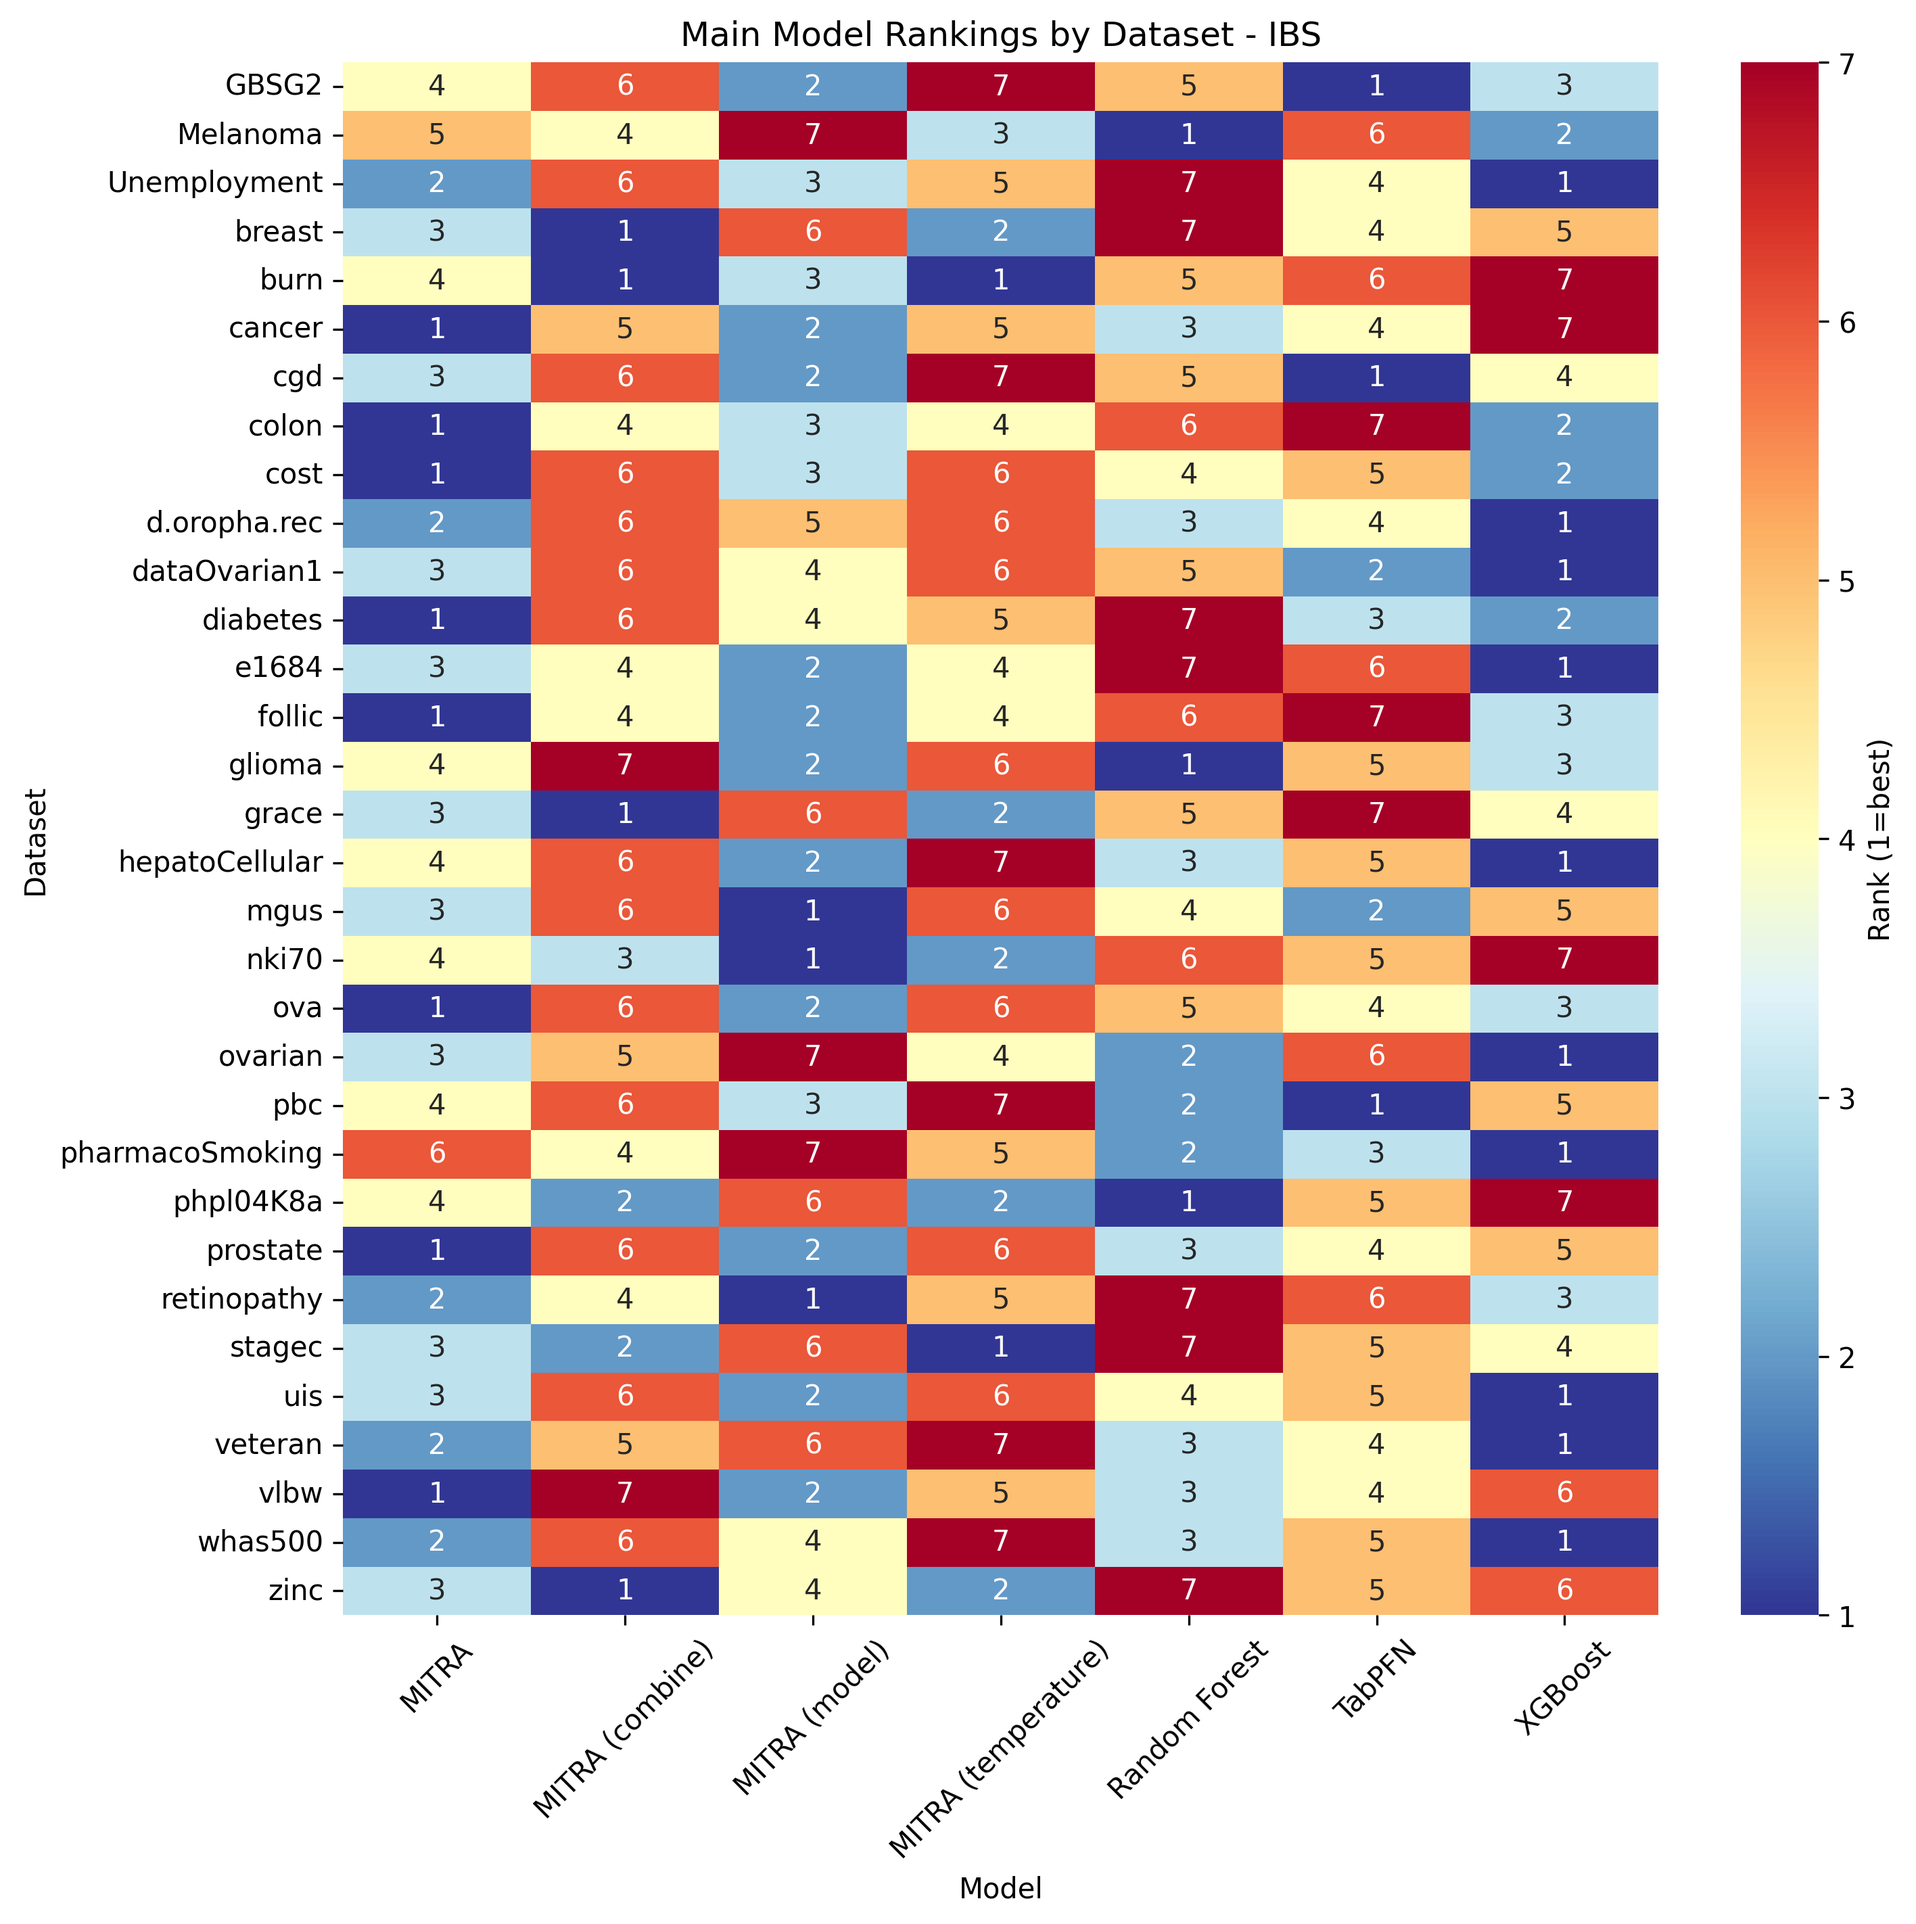
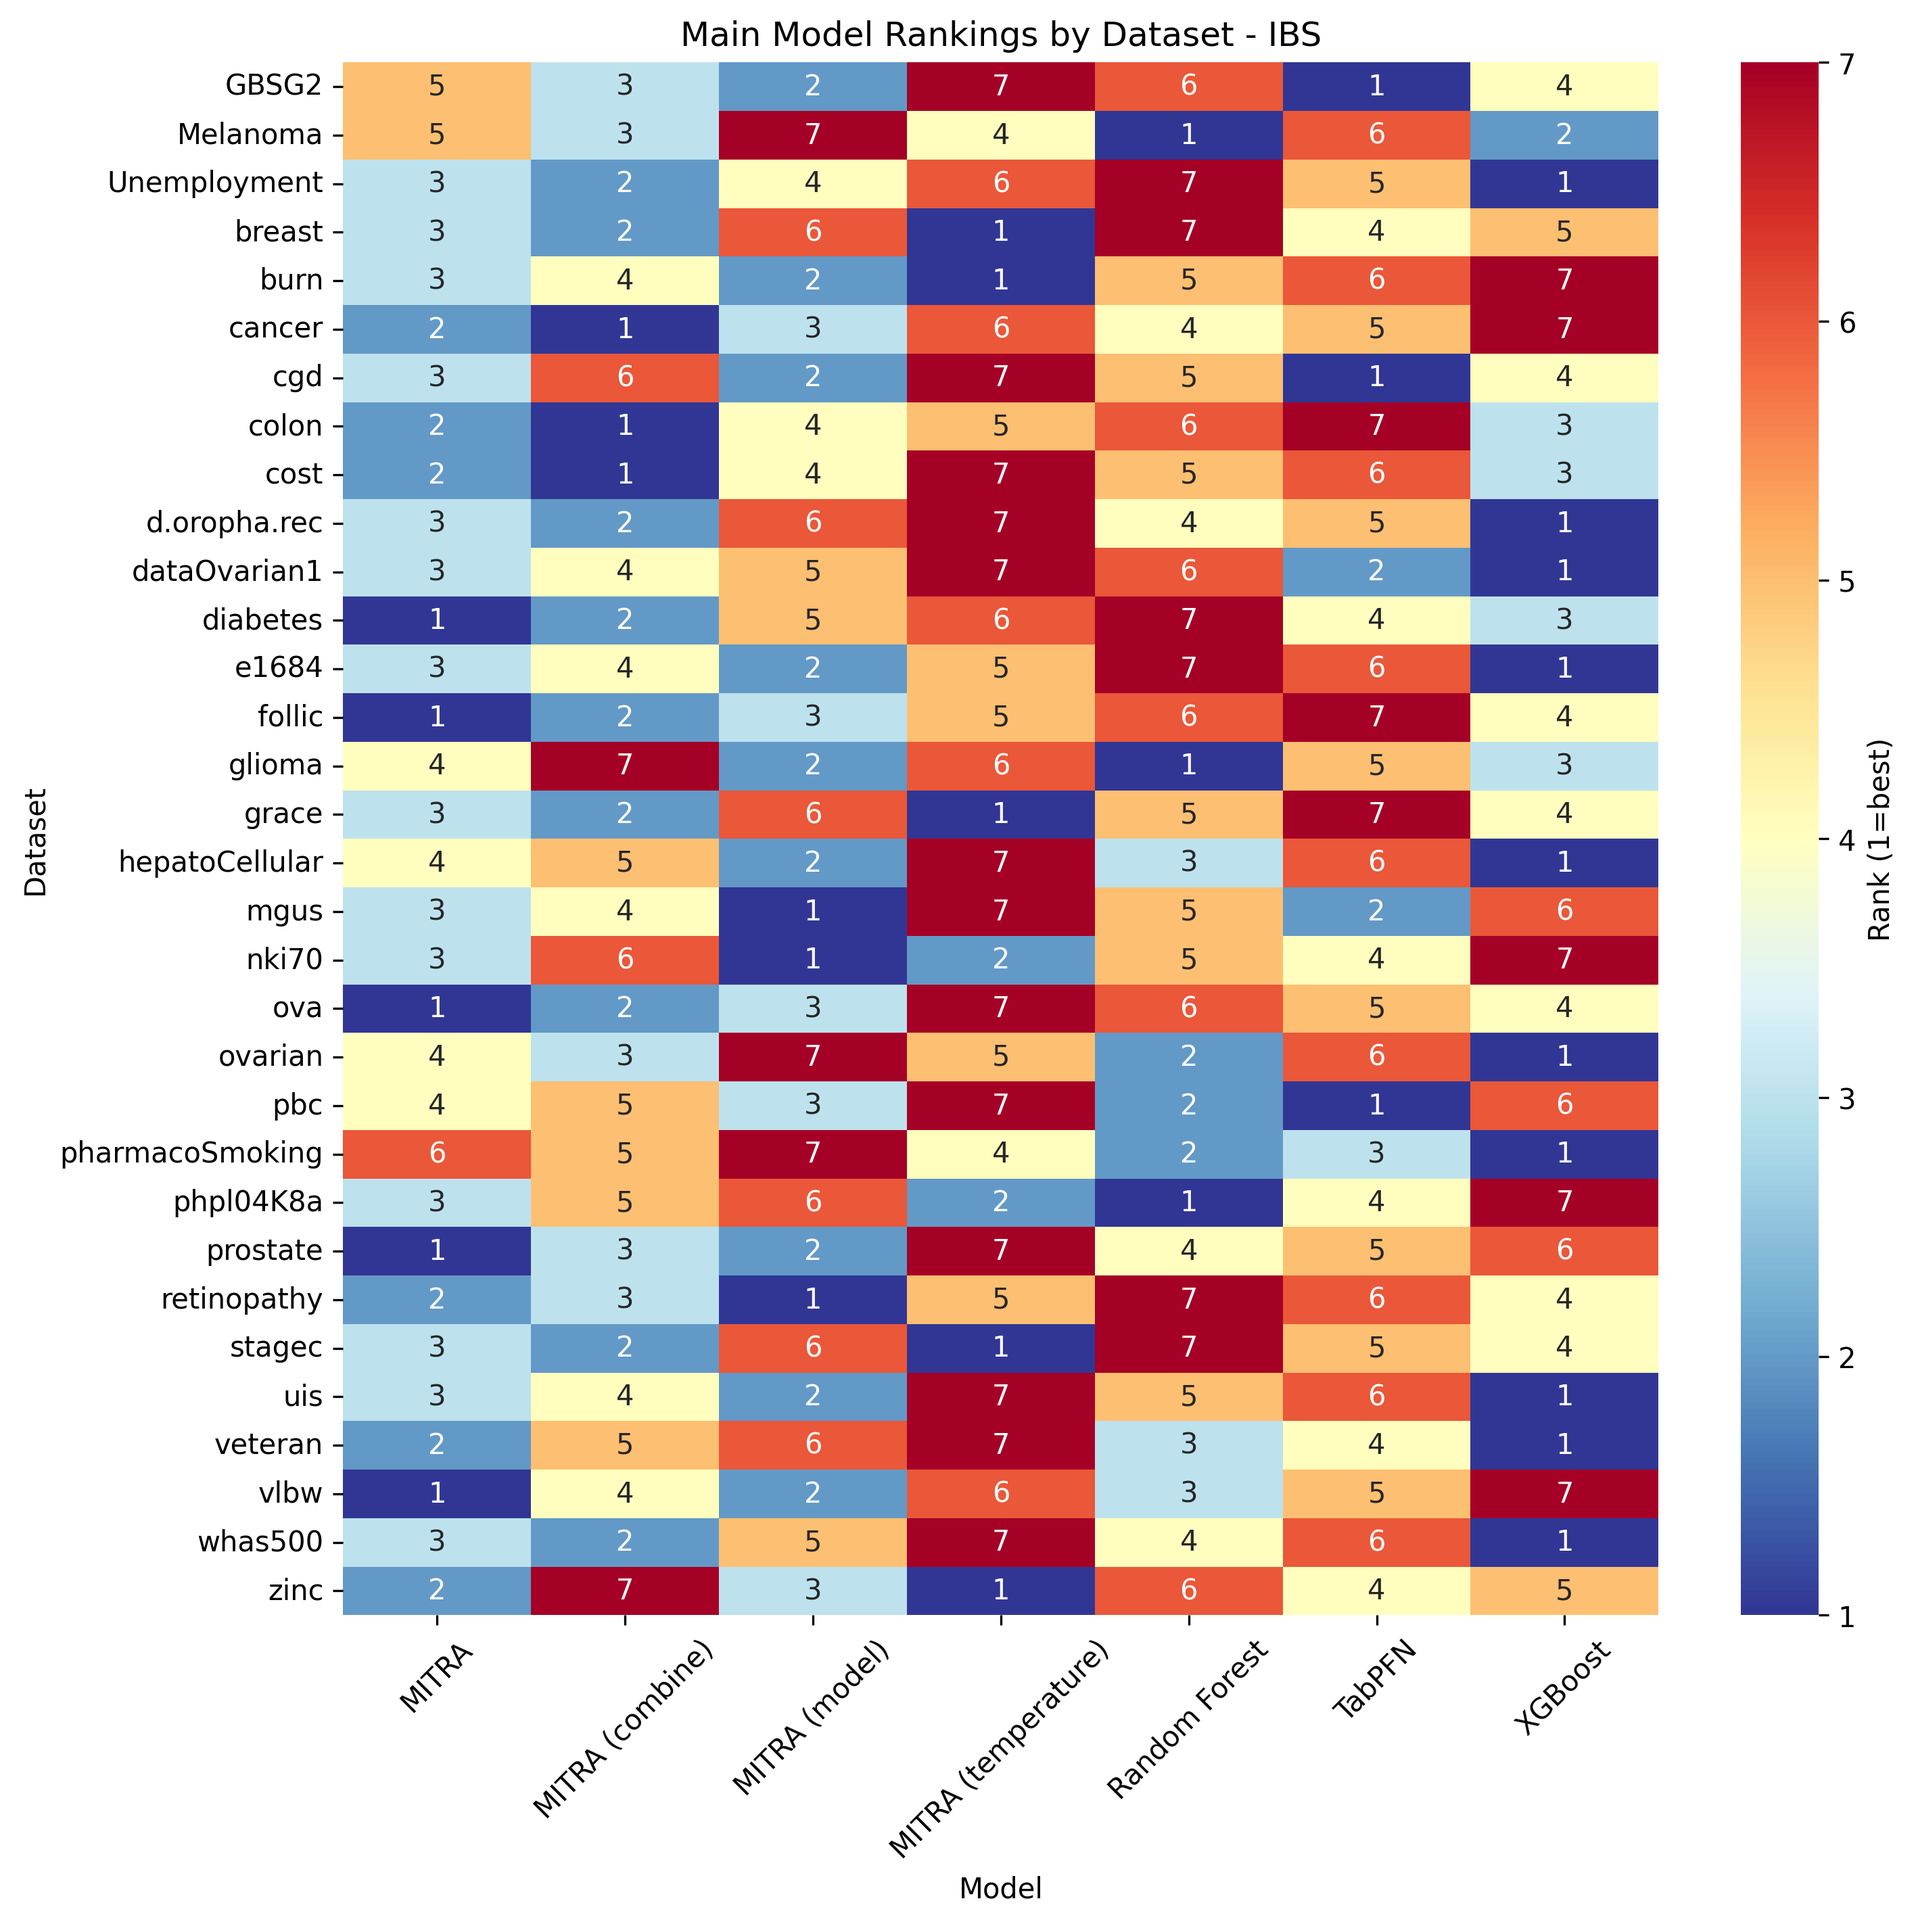
temperature minimize ibs

Changed region(s): [[0.1553, 0.0309, 0.8697, 0.8661]]

diff --git a/surv_mitra_binary_combine.py b/surv_mitra_binary_combine.py
@@ -119,49 +119,64 @@ def construct_mitra_binary_testset(x_test, times):
 
     return X_mitra_test, np.array(patient_ids)
 
-def find_optimal_temperature(val_logits, val_labels, initial_temp=1.0):
+def find_optimal_temperature(val_probs, X_mitra_val_pred, val_patient_ids, y_trainval, y_val, eval_times, initial_temp=1.0):
     """
-    Find optimal temperature for temperature scaling using validation data.
+    Find optimal temperature for temperature scaling using IBS metric on validation data.
     
     Parameters:
-    - val_logits: Raw logits from the model on validation data
-    - val_labels: True binary labels for validation data
+    - val_probs: Probability matrix from the model on validation data
+    - X_mitra_val_pred: MITRA validation features including eval_time column
+    - val_patient_ids: Array mapping each prediction to patient index
+    - y_trainval: Training+validation survival data for IBS calculation
+    - y_val: Validation survival data
+    - eval_times: Array of evaluation time points
     - initial_temp: Initial temperature value
     
     Returns:
     - optimal_temperature: Best temperature value found
     """
     
-    def temperature_scaled_loss(temperature):
-        # Apply temperature scaling
-        scaled_logits = val_logits / temperature
-        # Convert to probabilities using softmax
-        exp_logits = np.exp(scaled_logits - np.max(scaled_logits, axis=1, keepdims=True))
-        probs = exp_logits / np.sum(exp_logits, axis=1, keepdims=True)
-        
-        # Calculate negative log-likelihood (cross-entropy loss)
-        epsilon = 1e-15  # Small value to prevent log(0)
-        probs = np.clip(probs, epsilon, 1 - epsilon)
-        
-        # For binary classification, we use the probability of the true class
-        loss = 0
-        for i in range(len(val_labels)):
-            if val_labels[i] == 1:
-                loss -= np.log(probs[i, 1])  # Class 1 probability
-            else:
-                loss -= np.log(probs[i, 0])  # Class 0 probability
-        
-        return loss / len(val_labels)  # Average loss
+    def temperature_scaled_ibs(temperature):
+        try:
+            # Apply temperature scaling to probabilities
+            calibrated_probs = apply_temperature_scaling(val_probs, temperature)
+            surv_probs = calibrated_probs[:, 0]  # Class 0 is survival probability
+            
+            # Reconstruct survival matrix
+            n_patients = len(y_val)
+            S_val = np.zeros((n_patients, len(eval_times)))
+            
+            # Map predictions back to patient-time matrix
+            for i, t in enumerate(eval_times):
+                # Find predictions for this specific time point
+                mask = np.isclose(X_mitra_val_pred["eval_time"], t)
+                time_patient_ids = val_patient_ids[mask]
+                time_surv_probs = surv_probs[mask]
+                
+                # Assign survival probabilities to corresponding patients
+                S_val[time_patient_ids, i] = time_surv_probs
+            
+            # Ensure survival probabilities are non-increasing over time
+            S_val = np.minimum.accumulate(S_val, axis=1)
+            
+            # Calculate IBS
+            ibs = integrated_brier_score(y_trainval, y_val, S_val, eval_times)
+            return ibs
+            
+        except Exception as e:
+            print(f"Error in IBS calculation with temperature {temperature}: {e}")
+            return float('inf')  # Return large value if calculation fails
     
-    # Find optimal temperature using scalar minimization
+    # Find optimal temperature using scalar minimization (minimize IBS)
     result = minimize_scalar(
-        temperature_scaled_loss, 
-        bounds=(0.1, 10.0), 
+        temperature_scaled_ibs, 
+        bounds=(0.1, 5.0), 
         method='bounded'
     )
     
     optimal_temp = result.x
-    print(f"Optimal temperature found: {optimal_temp:.4f}")
+    min_ibs = result.fun
+    print(f"Optimal temperature found (IBS-based): {optimal_temp:.4f}, IBS: {min_ibs:.4f}")
     
     return optimal_temp
 
@@ -327,24 +342,10 @@ for file_name in dataset_files:
         probs_val = mitra_predictor.predict_proba(val_data)
         probs_val = probs_val.to_numpy()
         
-        # Prepare validation labels for temperature scaling
-        val_labels = []
-        for i, t in enumerate(eval_times):
-            mask = np.isclose(X_mitra_val_pred["eval_time"], t)
-            for patient_idx in val_patient_ids[mask]:
-                # Label is 1 if event occurred by time t, 0 otherwise
-                label = int(y_val["event"][patient_idx] and y_val["time"][patient_idx] <= t)
-                val_labels.append(label)
-        
-        val_labels = np.array(val_labels)
-        
-        # Convert probabilities to logits for temperature scaling
-        epsilon = 1e-15
-        probs_clipped = np.clip(probs_val, epsilon, 1 - epsilon)
-        pseudo_logits = np.log(probs_clipped)
-        
-        # Find optimal temperature
-        optimal_temperature = find_optimal_temperature(pseudo_logits, val_labels)
+        # Find optimal temperature using IBS optimization
+        optimal_temperature = find_optimal_temperature(
+            probs_val, X_mitra_val_pred, val_patient_ids, y_trainval, y_val, eval_times
+        )
         
         # Apply temperature scaling to validation predictions
         calibrated_probs_val = apply_temperature_scaling(probs_val, optimal_temperature)
